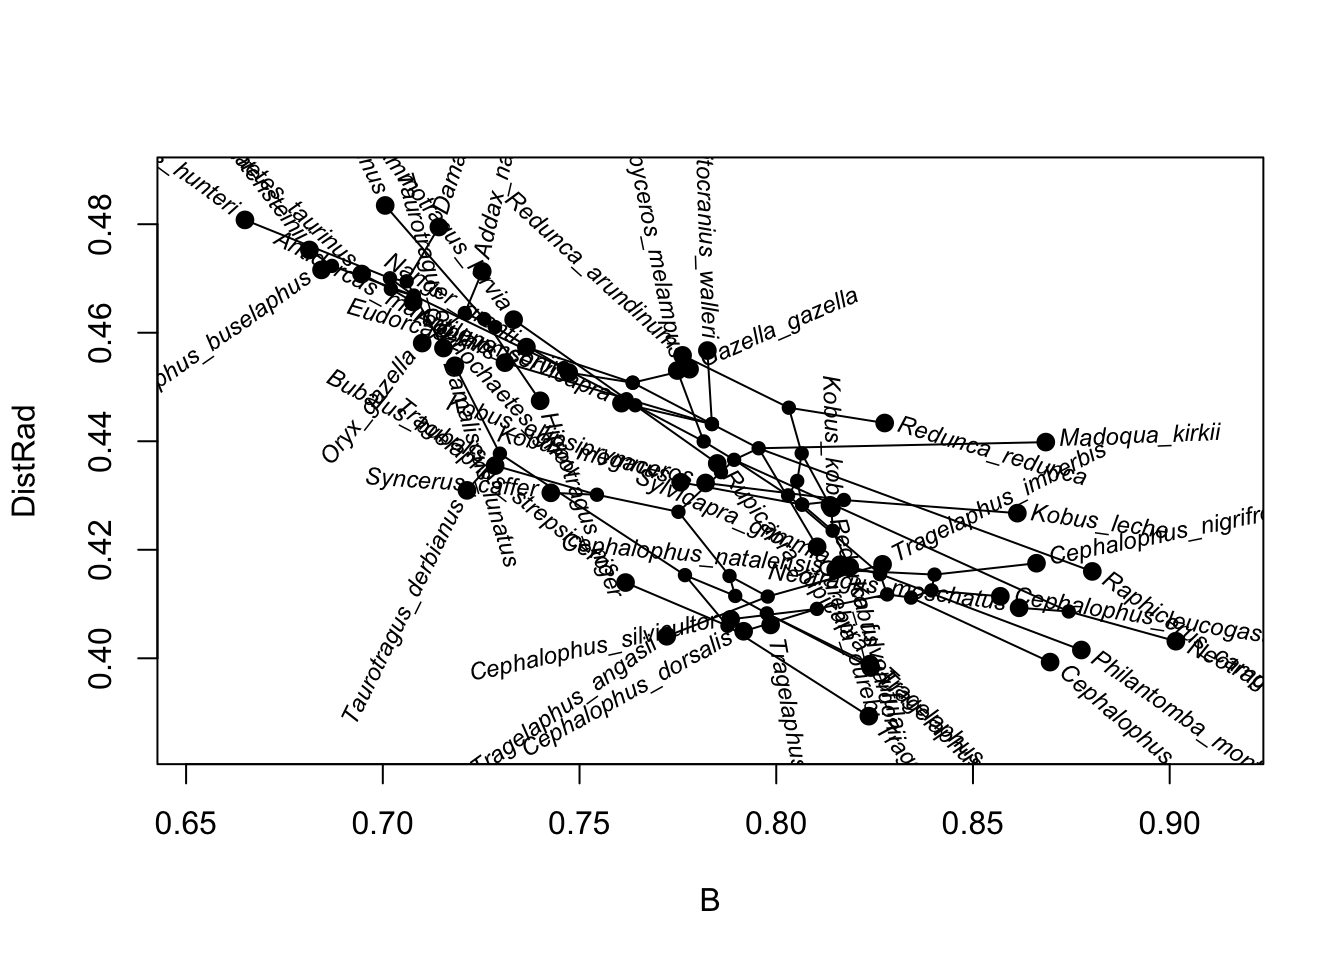
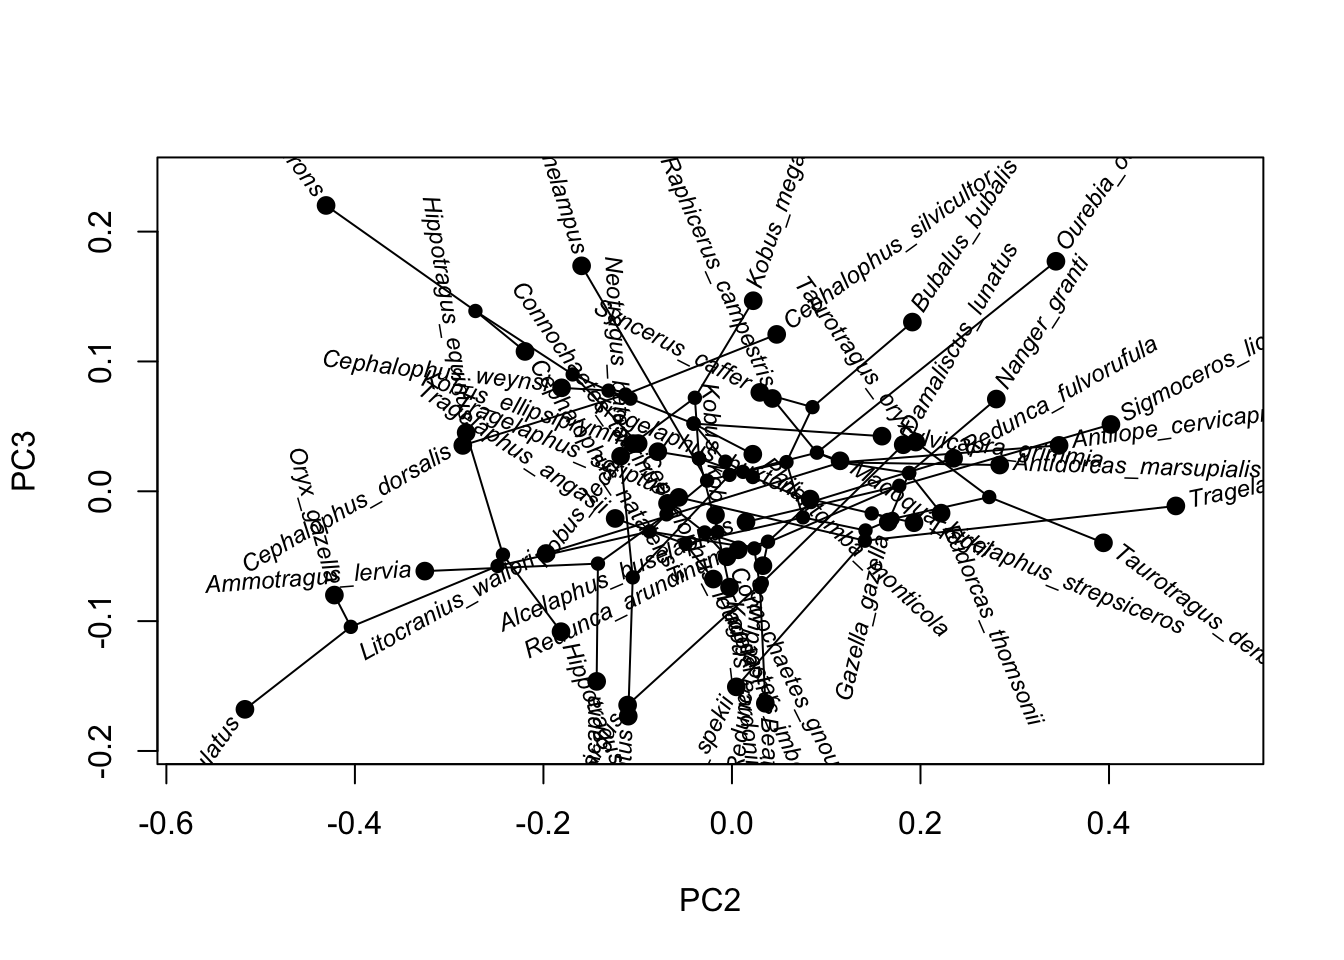
update

diff --git a/homework_assignment_1.html b/homework_assignment_1.html
@@ -85,8 +85,9 @@ if (window.hljs && document.readyState && document.readyState === "complete") {
 </div>
 
 
-<div id="note-you-should-write-your-homework-assignments-as-an-r-markdown-document-and-then-use-the-knit-button-in-rstudio-to-produce-a-stand-alone-html-document-containing-all-your-r-code-as-well-as-the-results-including-graphs-produced-by-your-r-code.-submit-this-single-.html-file-on-blackboard.-this-cheatsheet-is-helpful-for-using-r-markdown." class="section level4">
-<h4><strong>Note:</strong> You should write your homework assignments as an R markdown document, and then use the knit button in RStudio to produce a stand-alone html document containing all your R code, as well as the results (including graphs) produced by your R code. Submit this single .html file on blackboard. This <a href="http://www.rstudio.com/wp-content/uploads/2015/01/rmarkdown-cheatsheet.pdf">cheatsheet</a> is helpful for using R markdown.</h4>
+<div id="note-you-should-write-your-homework-assignments-as-an-r-markdown-document-and-then-use-the-knit-button-in-rstudio-to-produce-a-stand-alone-html-document-containing-all-your-r-code-as-well-as-the-results-including-graphs-produced-by-your-r-code.-submit-this-single-.html-file-on-blackboard.-be-sure-that-your-document-includes-headers-indicating-which-question-you-are-answering-1-2-etc." class="section level4">
+<h4><strong>Note:</strong> You should write your homework assignments as an R markdown document, and then use the knit button in RStudio to produce a stand-alone html document containing all your R code, as well as the results (including graphs) produced by your R code. Submit this single .html file on blackboard. Be sure that your document includes headers indicating which question you are answering (#1, #2, etc).</h4>
+<p>This <a href="http://www.rstudio.com/wp-content/uploads/2015/01/rmarkdown-cheatsheet.pdf">cheatsheet</a> is helpful for using R markdown.</p>
 <p><img src="knit_button.png" title="the knit button in R studio" alt="knit button" /></p>
 <hr />
 <ol style="list-style-type: decimal">

diff --git a/phylo_signal.html b/phylo_signal.html
@@ -89,17 +89,22 @@ if (window.hljs && document.readyState && document.readyState === "complete") {
 <pre class="r"><code>library(phytools)
 library(geiger)
 library(dplyr)
+library(ggplot2)
 
 astrag &lt;- read.table(&quot;http://hompal-stats.wabarr.com/datasets/barr_astrag_2014.txt&quot;, header=TRUE, sep=&quot;\t&quot;)
 astrag &lt;- mutate(astrag, geomean = (B*DistRad*LML*MIN*MML*ProxRad*WAF*WAT) ^ (1/8)) %&gt;%
   filter(Taxon != &quot;Nanger_soemmerringii&quot;)
 
-mean_B_DistRad &lt;- group_by(astrag, Taxon) %&gt;% 
-  summarise(B=mean(B/geomean), DistRad=mean(DistRad/geomean)) 
+PCA &lt;- prcomp(~ B +  DistRad + ProxRad + WAF + WAT + LML + MML, data=astrag, scale=TRUE)
 
+tipsDF &lt;- data.frame(PCA$x)
+tipsDF$Taxon &lt;- astrag$Taxon
+tipsDF &lt;- group_by(tipsDF, Taxon) %&gt;% 
+  summarise(PC2 = mean(PC2), PC3 = mean(PC3))
 
-tip_matrix &lt;- as.matrix(mean_B_DistRad[c(&quot;B&quot;, &quot;DistRad&quot;)])
-row.names(tip_matrix) &lt;- mean_B_DistRad$Taxon
+taxa &lt;- tipsDF$Taxon
+tipsMatrix &lt;- as.matrix(tipsDF[,c(&quot;PC2&quot;, &quot;PC3&quot;)])
+row.names(tipsDF) &lt;- taxa
 
 ruminant &lt;- read.tree(&quot;http://hompal-stats.wabarr.com/datasets/ruminants.phy&quot;)
 
@@ -108,7 +113,7 @@ nonBovids &lt;- name.check(ruminant, astrag, data.names = astrag$Taxon)$tree_not
 bovids &lt;- drop.tip(phy = ruminant, tip = nonBovids)
 
 
-phylomorphospace(tree = bovids, X = tip_matrix, )</code></pre>
+phylomorphospace(tree = bovids, X = tipsMatrix )</code></pre>
 <p><img src="phylo_signal_files/figure-html/unnamed-chunk-1-1.png" title="" alt="" width="672" /></p>
 </div>
 
